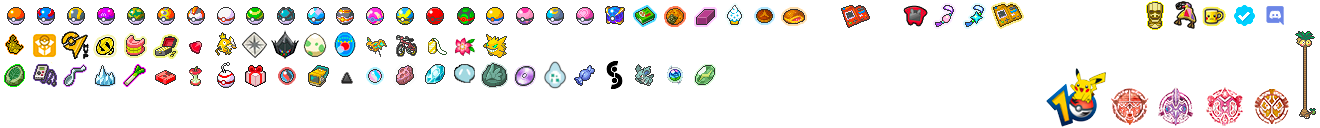
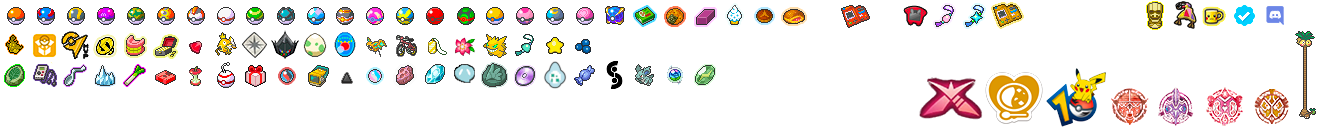
Add new event flairs

Changed region(s): [[0.6833, 0.5625, 0.8076, 0.9688], [0.3727, 0.2812, 0.4659, 0.4375]]

diff --git a/src/ballflair.css b/src/ballflair.css
@@ -316,9 +316,38 @@ body .flair:after {
     background: -480px -30px;
 }
 
+/* Catching Charm - */
+.flair.flair-catchingcharm:after {
+    background: -510px -30px;
+}
+
+/* Star Sweet - */
+.flair.flair-starsweet:after {
+    background: -540px -30px;
+}
+
+/* Berry Sweet - */
+.flair.flair-berrysweet:after {
+    background: -570px -30px;
+}
+
 /* 10th anniversary logo*/
 .flair.flair-10logo:after {
     background: -523px -34px;
+    background-size: 660px 64px;
+    image-rendering: auto;
+}
+
+/* Curry Mark */
+.flair.flair-currymark:after {
+    background: -492px -34px;
+    background-size: 660px 64px;
+    image-rendering: auto;
+}
+
+/* Gigantamax Symbol */
+.flair.flair-gigantamax:after {
+    background: -459px -34px;
     background-size: 660px 64px;
     image-rendering: auto;
 }
@@ -358,6 +387,8 @@ body .flair:after {
 .flair.flair-tapukoko-medal:after {
     background: -1244px -86px;
 }
+
+
 
 /********************************************************************************
 * EXTERNAL COMMUNITY FLAIRS
